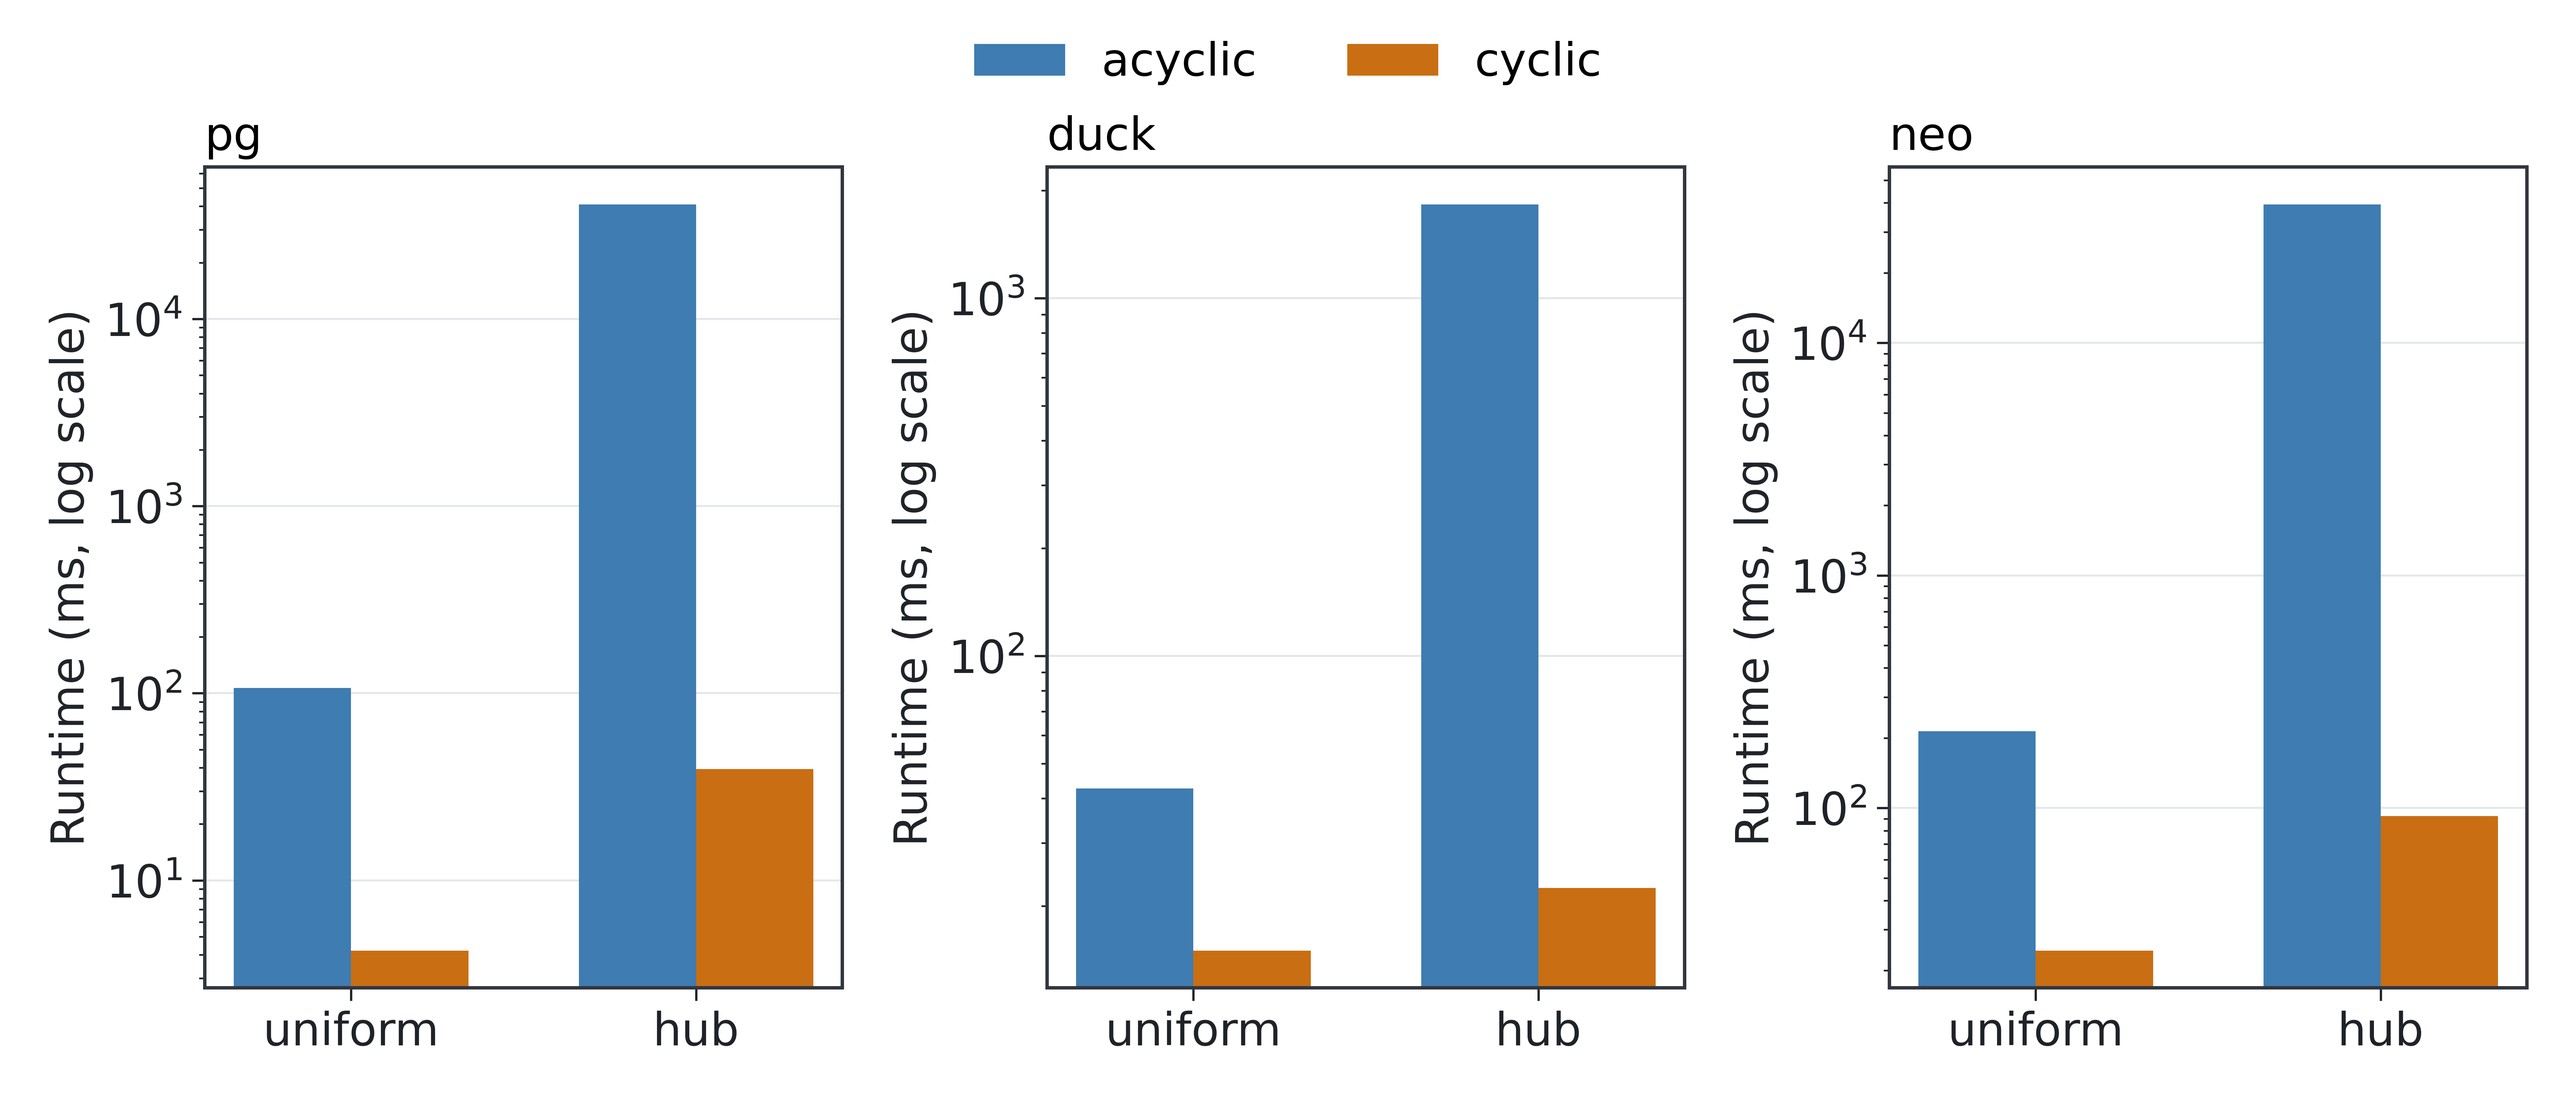
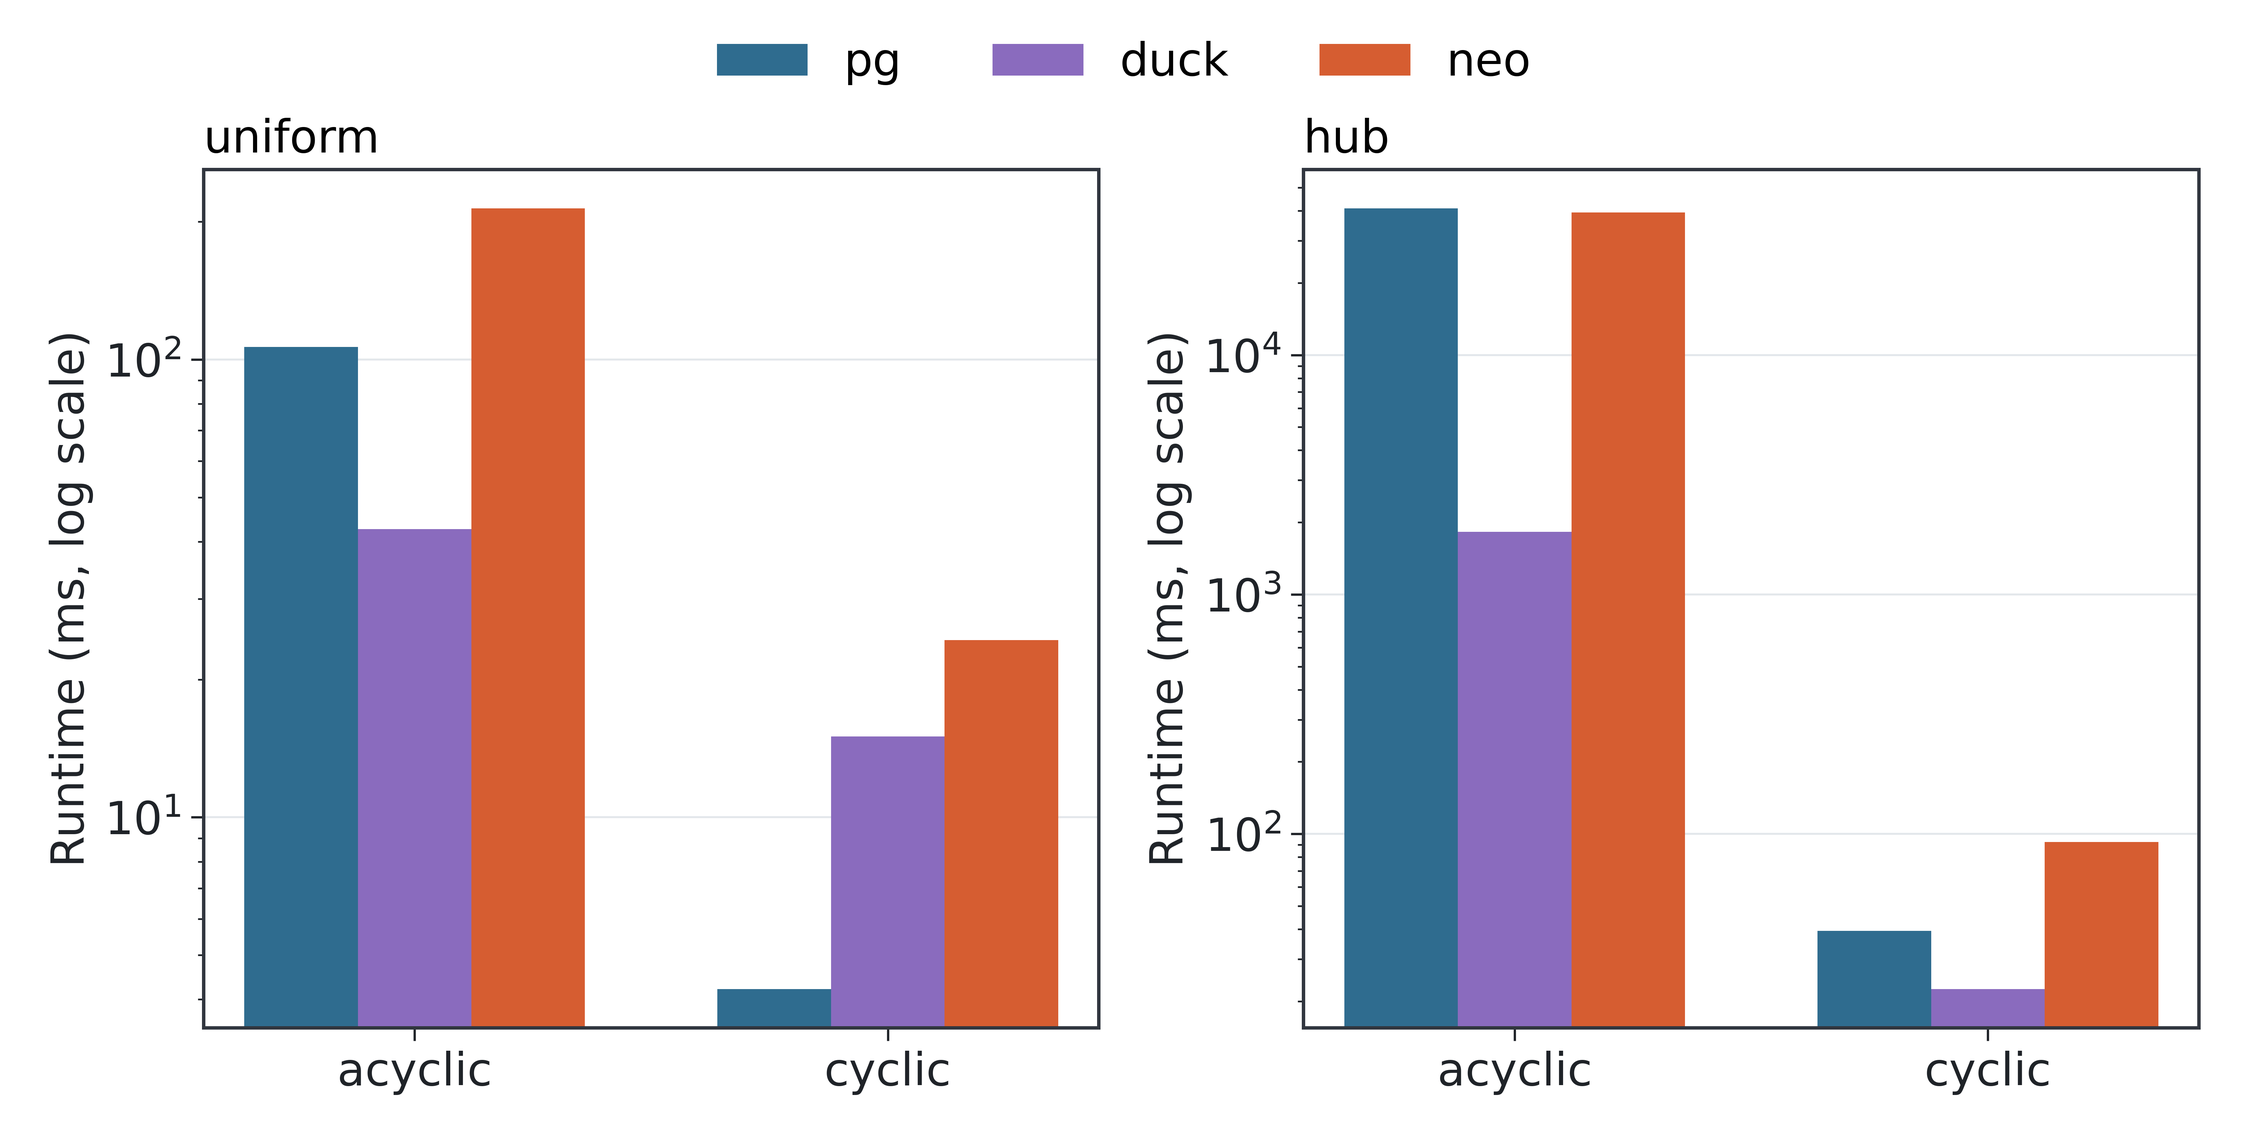
figures

diff --git a/src/drkg_bench/figures.py b/src/drkg_bench/figures.py
@@ -52,41 +52,40 @@ def _structure_runtime_figure(path: Path, rows: list[dict[str, str]], *, dpi: in
         return
     engines = [eng for eng in ["pg", "duck", "neo"] if any(row["eng"] == eng for row in rows)]
     regimes = [reg for reg in ["uniform", "hub"] if any(row["reg"] == reg for row in rows)]
-    fig, axes = plt.subplots(1, len(engines), figsize=(max(12, len(engines) * 4.2), 5.4), squeeze=False)
+    shapes = ["acyclic", "cyclic"]
+    fig, axes = plt.subplots(1, len(regimes), figsize=(max(11, len(regimes) * 5.4), 5.6), squeeze=False)
 
-    legend_handles = None
-    for axis, eng in zip(axes[0], engines, strict=True):
-        eng_rows = [row for row in rows if row["eng"] == eng]
-        x_values = np.arange(len(regimes))
-        width = 0.34
-        handles = []
-        for index, shape in enumerate(["acyclic", "cyclic"]):
+    legend_handles = []
+    for axis, reg in zip(axes[0], regimes, strict=True):
+        x_values = np.arange(len(shapes))
+        width = 0.24
+        for eng_index, eng in enumerate(engines):
             values = []
-            for reg in regimes:
-                matched = next((row for row in eng_rows if row["reg"] == reg and row["shape"] == shape), None)
+            for shape in shapes:
+                matched = next((row for row in rows if row["eng"] == eng and row["reg"] == reg and row["shape"] == shape), None)
                 values.append(float(matched["med_ms"]) if matched and matched["med_ms"] else np.nan)
             bar_container = axis.bar(
-                x_values + (-width / 2 if index == 0 else width / 2),
+                x_values + (eng_index - (len(engines) - 1) / 2) * width,
                 values,
                 width=width,
-                color=NATURE_PALETTE["acyclic" if shape == "acyclic" else "cyclic"],
-                label=shape,
+                color=_engine_color(eng),
+                label=eng,
             )
-            handles.append(bar_container)
-        legend_handles = handles
+            if reg == regimes[0]:
+                legend_handles.append(bar_container)
         axis.set_yscale("log")
         axis.set_ylabel("Runtime (ms, log scale)")
         axis.set_xticks(x_values)
-        axis.set_xticklabels(regimes)
-        axis.set_title(eng, loc="left", fontsize=_font_size())
+        axis.set_xticklabels(shapes)
+        axis.set_title(reg, loc="left", fontsize=_font_size())
         style_axes(axis)
 
     if legend_handles:
         fig.legend(
             legend_handles,
-            ["acyclic", "cyclic"],
+            engines,
             loc="upper center",
-            ncol=2,
+            ncol=len(engines),
             bbox_to_anchor=(0.5, 1.00),
         )
     fig.tight_layout(rect=(0, 0, 1, 0.94))
